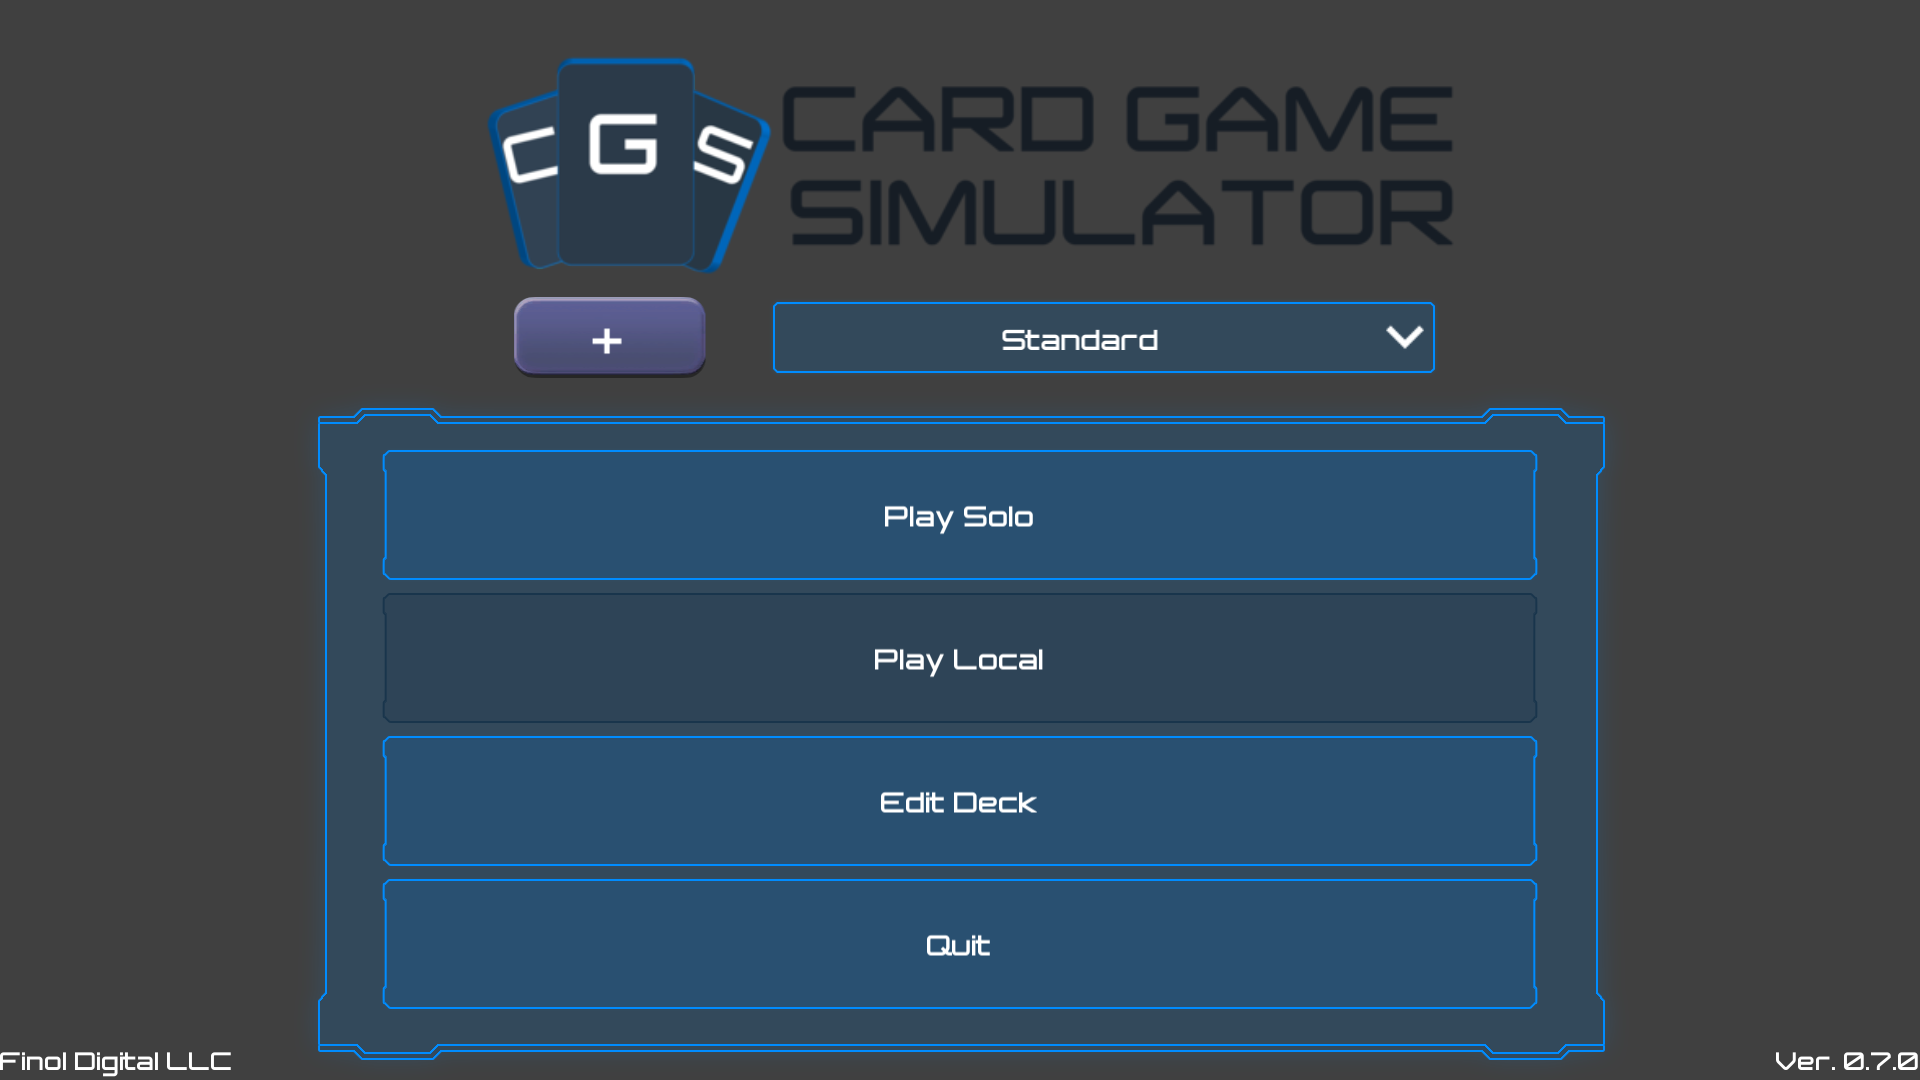
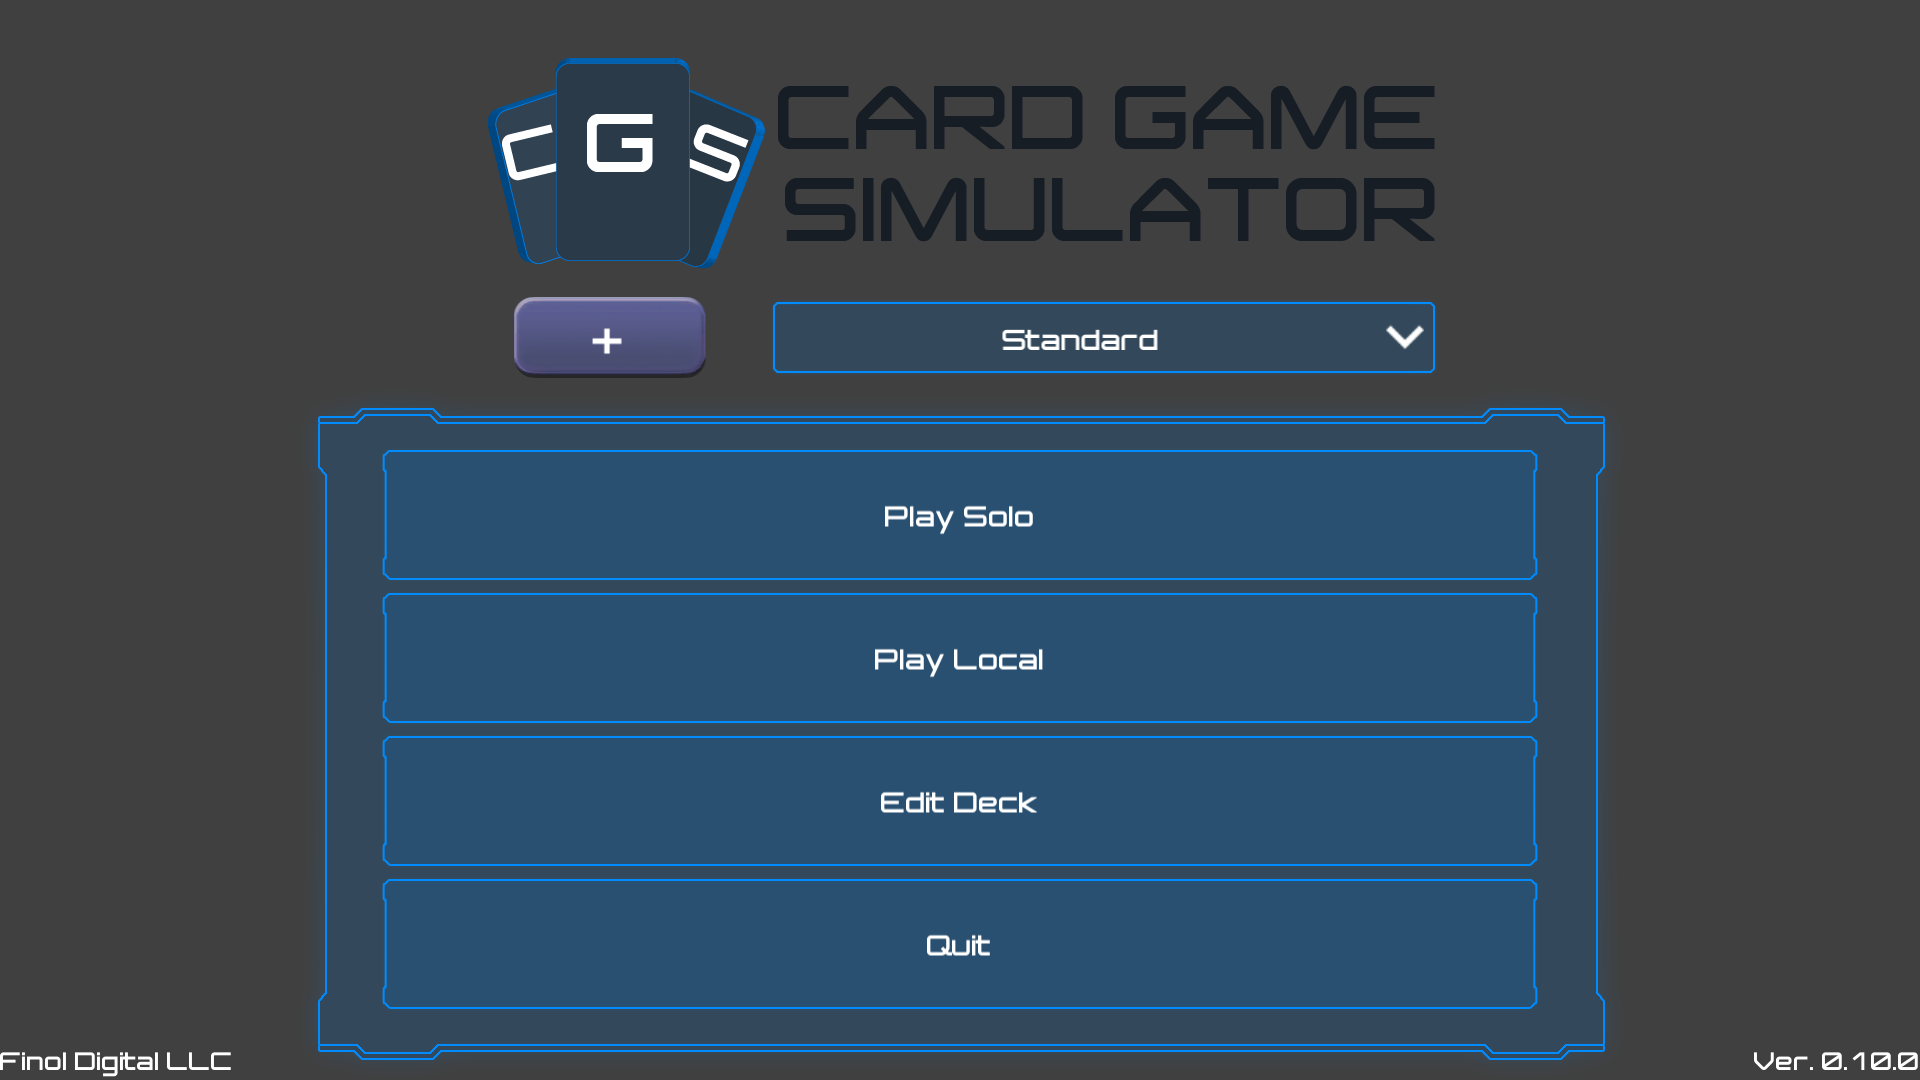
Release version 0.10.0

diff --git a/Assets/Scripts/DeckEditor/CardSearchMenu.cs b/Assets/Scripts/DeckEditor/CardSearchMenu.cs
@@ -36,9 +36,9 @@ public class CardSearchMenu : MonoBehaviour
                     case PropertyType.Enum:
                         if (!EnumPropertyFilters.ContainsKey(property.Name))
                             break;
-                        EnumDef enumDef = CardGameManager.Current.Enums.Where(def => def.Property.Equals(property.Name)).First();
+                        EnumDef enumDef = CardGameManager.Current.Enums.Where(def => def.Property.Equals(property.Name)).FirstOrDefault();
                         if (enumDef != null)
-                            filters += property.Name + ":" + enumDef.GetStringFromIntFlags(EnumPropertyFilters [property.Name]) + "; ";
+                            filters += property.Name + ":=" + EnumPropertyFilters [property.Name].ToString() + "; ";
                         break;
                 }
             }
@@ -89,12 +89,12 @@ public class CardSearchMenu : MonoBehaviour
         Vector2 panelPosition = stringPropertyPanel.transform.localPosition;
         foreach (PropertyDef property in CardGameManager.Current.CardProperties) {
             GameObject newPanel = null;
-            if (property.Type == PropertyType.String)
-                newPanel = CreateStringPropertyFilterPanel(panelPosition, property.Name);
+            if (EnumDef.IsEnumProperty(property.Name))
+                newPanel = CreateEnumPropertyFilterPanel(panelPosition, property.Name);
             else if (property.Type == PropertyType.Integer)
                 newPanel = CreateIntegerPropertyFilterPanel(panelPosition, property.Name);
-            else if (property.Type == PropertyType.Enum)
-                newPanel = CreateEnumPropertyFilterPanel(panelPosition, property.Name);
+            else //if (property.Type == PropertyType.String)
+                newPanel = CreateStringPropertyFilterPanel(panelPosition, property.Name);
             
             if (newPanel != null) {
                 panelPosition.y -= PropertyPanelHeight;
@@ -162,10 +162,11 @@ public class CardSearchMenu : MonoBehaviour
         EnumPropertyFilters.TryGetValue(propertyName, out storedFilter);
 
         Vector3 localPosition = config.enumToggle.transform.localPosition;
+        int i = 0;
         foreach (KeyValuePair<string, string> enumValue in enumDef.Values) {
             int intValue;
             if (!EnumDef.TryParseInt(enumValue.Key, out intValue))
-                continue;
+                intValue = 1 << i;
             Toggle newToggle = Instantiate(config.enumToggle.gameObject, config.enumContent).GetOrAddComponent<Toggle>();
             newToggle.isOn = (storedFilter & intValue) != 0;
             UnityAction<bool> enumChange = new UnityAction<bool>(isOn => SetEnumPropertyFilter(propertyName, intValue, isOn));
@@ -173,6 +174,7 @@ public class CardSearchMenu : MonoBehaviour
             newToggle.GetComponentInChildren<Text>().text = enumValue.Value;
             newToggle.transform.localPosition = localPosition;
             localPosition.x += ToggleButtonWidth;
+            i++;
         }
 
         config.enumToggle.gameObject.SetActive(false);

diff --git a/Assets/Scripts/PlayMode/LocalNetManager.cs b/Assets/Scripts/PlayMode/LocalNetManager.cs
@@ -7,11 +7,12 @@ public class LocalNetManager : NetworkManager
 {
     public GameObject cardModelPrefab;
     public RectTransform playAreaContent;
-    public NetworkDiscovery discovery;
 
     public NetPlayer LocalPlayer { get; set; }
 
     public static NetworkHash128 CardModelAssetId { get; private set; }
+
+    private NetworkDiscovery _discovery;
 
     void Start()
     {
@@ -40,23 +41,31 @@ public class LocalNetManager : NetworkManager
 
     public void SearchForHost()
     {
-        if (discovery.running)
-            discovery.StopBroadcast();
-        discovery.Initialize();
-        discovery.StartAsClient();
+        if (Discovery.running)
+            Discovery.StopBroadcast();
+        Discovery.Initialize();
+        Discovery.StartAsClient();
     }
 
     public override void OnStartHost()
     {
         base.OnStartHost();
-        if (discovery.running)
-            discovery.StopBroadcast();
-        discovery.Initialize();
-        discovery.StartAsServer();
+        if (Discovery.running)
+            Discovery.StopBroadcast();
+        Discovery.Initialize();
+        Discovery.StartAsServer();
     }
 
     public override void OnClientConnect(NetworkConnection conn)
     {
         ClientScene.AddPlayer(conn, 0);
+    }
+
+    public NetworkDiscovery Discovery {
+        get {
+            if (_discovery == null)
+                _discovery = CardGameManager.Instance.gameObject.GetOrAddComponent<AutoJoinDiscovery>();
+            return _discovery;
+        }
     }
 }

diff --git a/Assets/Scripts/CardGameCore/Card.cs b/Assets/Scripts/CardGameCore/Card.cs
@@ -40,10 +40,17 @@ public class Card : IComparable<Card>, IEquatable<Card>
     {
         if (string.IsNullOrEmpty(propertyName) || !Properties.ContainsKey(propertyName))
             return string.Empty;
-
+        
         EnumDef enumDef = CardGameManager.Current.Enums.Where(def => def.Property.Equals(propertyName)).FirstOrDefault();
-        if (enumDef != null)
-            return enumDef.GetStringFromIntFlags(GetPropertyValueInt(propertyName));
+        if (enumDef != null) {
+            int intValue;
+            string stringValue;
+            if (EnumDef.TryParseInt(Properties [propertyName].Value, out intValue))
+                return enumDef.GetStringFromIntFlags(intValue);
+            if (enumDef.Values.TryGetValue(Properties [propertyName].Value, out stringValue))
+                return stringValue;
+        }
+
         return Properties [propertyName] != null ? Properties [propertyName].Value : string.Empty;
     }
 

diff --git a/Assets/Scripts/CardGameCore/CardGame.cs b/Assets/Scripts/CardGameCore/CardGame.cs
@@ -294,6 +294,9 @@ public class CardGame
                 foreach (KeyValuePair<string, int> entry in enumProperties)
                     if (int.TryParse(card.Properties [entry.Key].Value, out intValue) && (intValue & entry.Value) == 0)
                         propsMatch = false;
+                    else {
+                        // TODO: CHECK AGAINST INT INDEXES IN ENUMDEF
+                    }
                 if (propsMatch)
                     yield return card;
             }

diff --git a/Assets/Scripts/PlayMode/PlayMode.cs b/Assets/Scripts/PlayMode/PlayMode.cs
@@ -21,7 +21,6 @@ public class PlayMode : MonoBehaviour
 
     IEnumerator Start()
     {
-        CardGameManager.IsMultiplayer = true;
         if (CardGameManager.IsMultiplayer) {
             ((LocalNetManager)NetworkManager.singleton).SearchForHost();
             yield return new WaitForSecondsRealtime(3.0f);

diff --git a/Assets/Scripts/MainMenu/MainMenu.cs b/Assets/Scripts/MainMenu/MainMenu.cs
@@ -48,7 +48,7 @@ public class MainMenu : MonoBehaviour
     void Update()
     {
         #if (UNITY_ANDROID || UNITY_IOS) && !UNITY_EDITOR
-        if (Input.GetKeyDown(KeyCode.Escape) && !networkPanel.activeSelf)
+        if (Input.GetKeyDown(KeyCode.Escape))
             Quit();
         #endif
     }

diff --git a/docs/README.md b/docs/README.md
@@ -1,5 +1,9 @@
 # Get Card Game Simulator
-You can get CGS from the [Google Play Store](https://play.google.com/store/apps/details?id=com.finoldigital.cardgamesim), and you can also download Windows and Mac versions from [this Google Drive folder](https://drive.google.com/open?id=0B563jbWV7hpdTi1TbUdjM1UwTWs). We are also on [Facebook](https://www.facebook.com/cardgamesimulator/)!
+You can get CGS on your preferred device!
+- Android via the [Google Play Store](https://play.google.com/store/apps/details?id=com.finoldigital.cardgamesim)
+- Windows x64 via [ZIP File](https://drive.google.com/uc?id=0B563jbWV7hpdQnl2a0tkNFB1T28&export=download)
+- Mac x64 via [ZIP File](https://drive.google.com/uc?id=0B563jbWV7hpdQnp4ZDZKZDlWYnM&export=download)
+- Public iOS version coming soon. Contact us on [Facebook](https://www.facebook.com/cardgamesimulator/) to be added to the TestFlight iOS closed beta!
 
 ## Add Custom Card Games
 CGS comes pre-packaged with these card games:
@@ -11,13 +15,12 @@ Custom card games can be added by pressing the + button on the main menu:
 
 ![Main Menu Image](screenshots/mainmenu.png)
 
-In the resulting popup, type or paste the url for the custom game you would like to download:
+In the resulting popup, type or paste the AutoUpdate URL for the custom game you would like to download:
 
 ![Game Popup Image](screenshots/gamepopup.png)
 
-You can get an appropriate url from other people. For example, try adding Hearthstone by pasting this url: https://drive.google.com/uc?export=download&id=0B563jbWV7hpdZmxBOUtsaFhIR0E
+For example, the AutoUpdate URL for Hearthstone is: https://hs.finoldigital.com/
 
-You can also define your own custom game.
-To create your own custom games, see [Defining Custom Games](CUSTOM.md).
+You can also define your own custom game(s) by following the [Custom Games Documentation](CUSTOM.md).
 
 You may also be interested in our [Privacy Policy](PRIVACY.md).

diff --git a/docs/CUSTOM.md b/docs/CUSTOM.md
@@ -25,7 +25,7 @@ The structure of this custom game folder is:
     - ...
 
 ## JSON File Structure
-When downloading a custom game from a url, the data that is being downloaded is the contents of the \<Name\>.json file. CGS generates the rest of the folder structure based off the information in that file. The structure for that file is:
+When downloading a custom game from a url, the data that is being downloaded is the contents of the \<Name\>.json file. CGS generates the rest of the folder structure based off the information in that file. The fields for that file are:
 
 {
 
